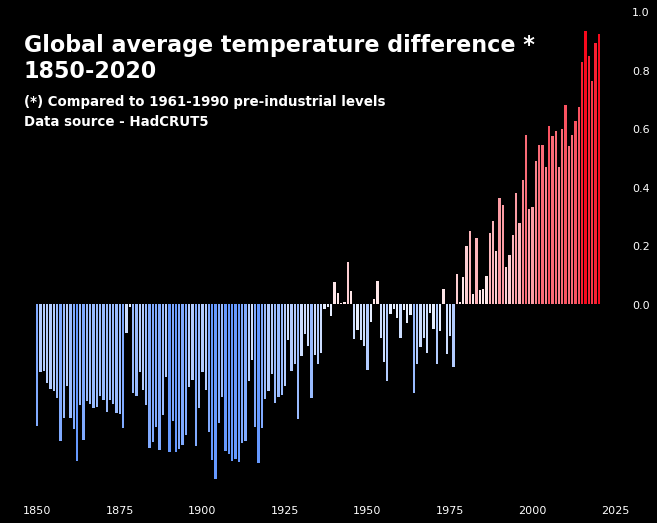
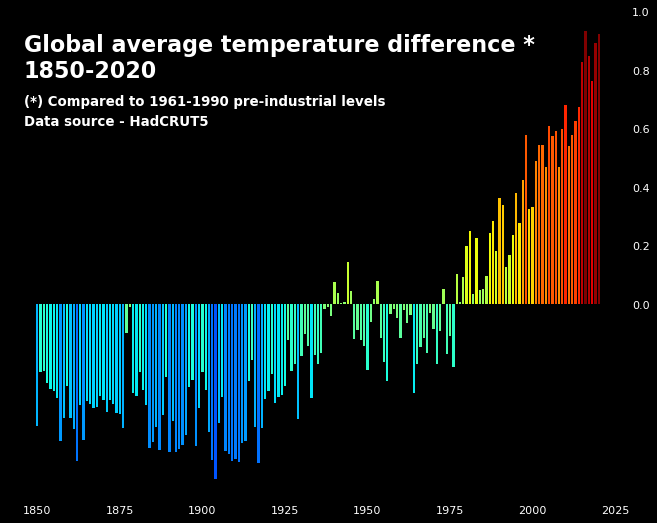
Bar plot: make the bar colors dynamic using colormaps

Changed region(s): [[0.0304, 0.0612, 0.9132, 0.9178]]

diff --git a/hadcrut5-bars.py b/hadcrut5-bars.py
@@ -6,8 +6,9 @@
 
 import argparse
 import math
-import matplotlib as mpl
 import matplotlib.pyplot as plt
+import matplotlib.colors
+
 import netCDF4 as nc
 import numpy as np
 import requests
@@ -44,26 +45,7 @@ def plotbar(dataset, outfile, period, verbose):
     def major_formatter(x, pos):
         return f'{x:.1f}' if x >= 0 else ''
 
-    # ax.yaxis.set_minor_formatter(yminor_formatter)
-    # view_limits(self, dmin, dmax)[source]
-
     bar_width = 0.7
-
-    negative = [
-        "#e6eeff", "#ccddff", "#b3ccff",
-        "#99bbff", "#80aaff", "#6699ff",
-        "#4d88ff", "#3377ff", "#1a66ff",
-        "#0055ff", "#004de6", "#0044cc",
-        "#003cb3", "#003399", "#002b80"
-    ]
-    positive = [
-        "#fee6e8", "#fdced2", "#fdb5bb",
-        "#fc9ca4", "#fb838d", "#fa6b77",
-        "#fa5260", "#f93949", "#f82032",
-        "#f7091c", "#df0719", "#c60616",
-        "#ad0513", "#940511", "#7c040e"
-    ]
-
     basefont = {
         'family': 'DejaVu Sans',
         'color' : 'white',
@@ -88,9 +70,9 @@ def plotbar(dataset, outfile, period, verbose):
         print(("tas_mean relative to {}: \\\n{}"
                .format(period, np.array(mean))))
 
-    color_deep = lambda x: math.floor(math.fabs(x * 10))
-    get_color = lambda x: positive[color_deep(x)] if x > 0 else negative[color_deep(x)]
-    colors = [get_color(i) for i in mean]
+    cmap = plt.cm.jet # or plt.cm.bwr
+    norm = matplotlib.colors.Normalize(vmin=-1, vmax=max(mean))
+    colors = cmap(norm(mean))
 
     ax.bar(years,
            mean,
@@ -98,7 +80,6 @@ def plotbar(dataset, outfile, period, verbose):
            color=colors,
            align="center")
 
-    #ax.axis('off')
     ax.set_frame_on(False)
     ax.yaxis.tick_right()
     ax.yaxis.set_major_formatter(major_formatter)
